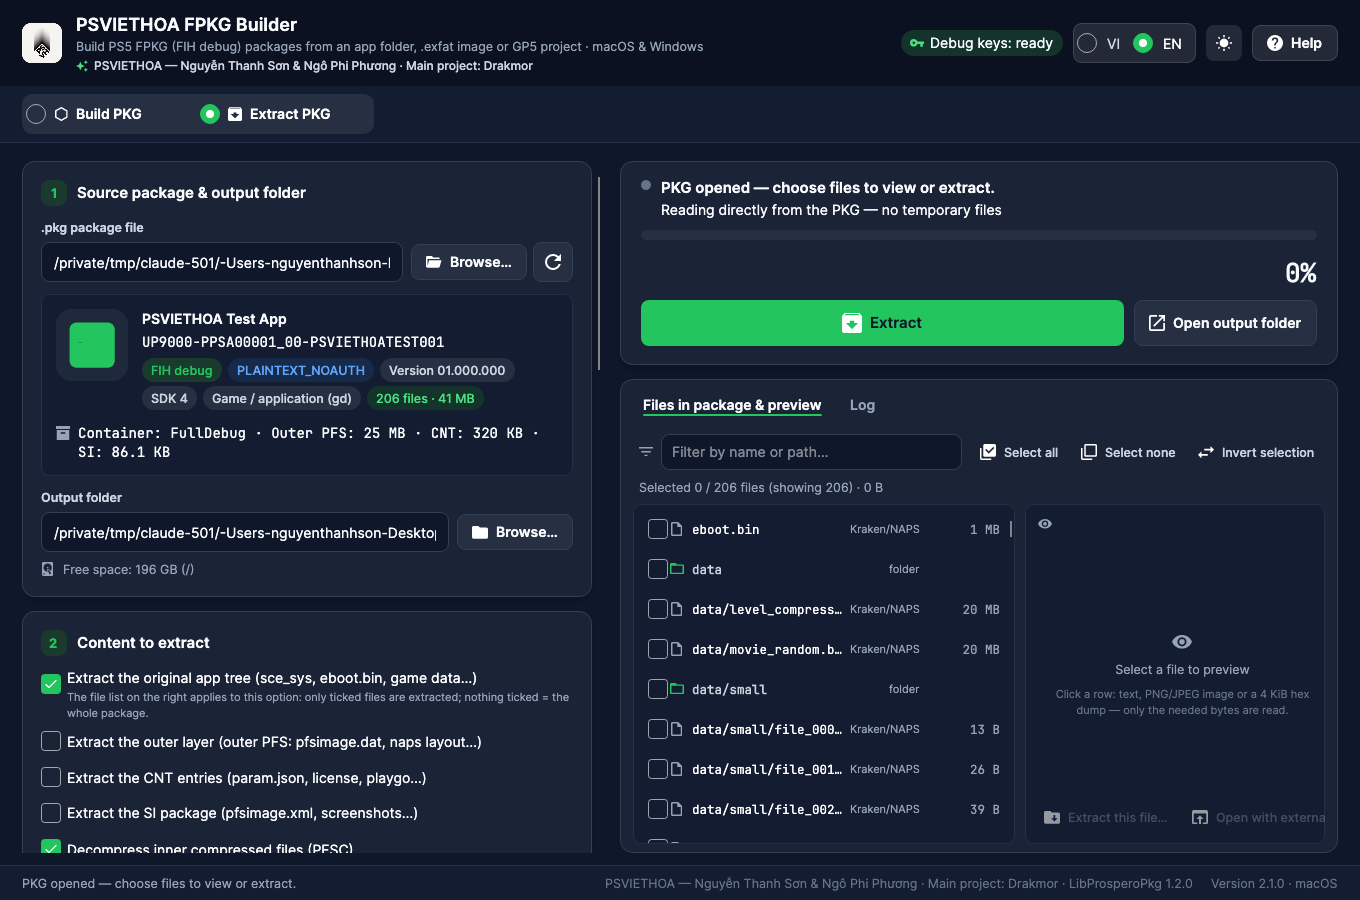
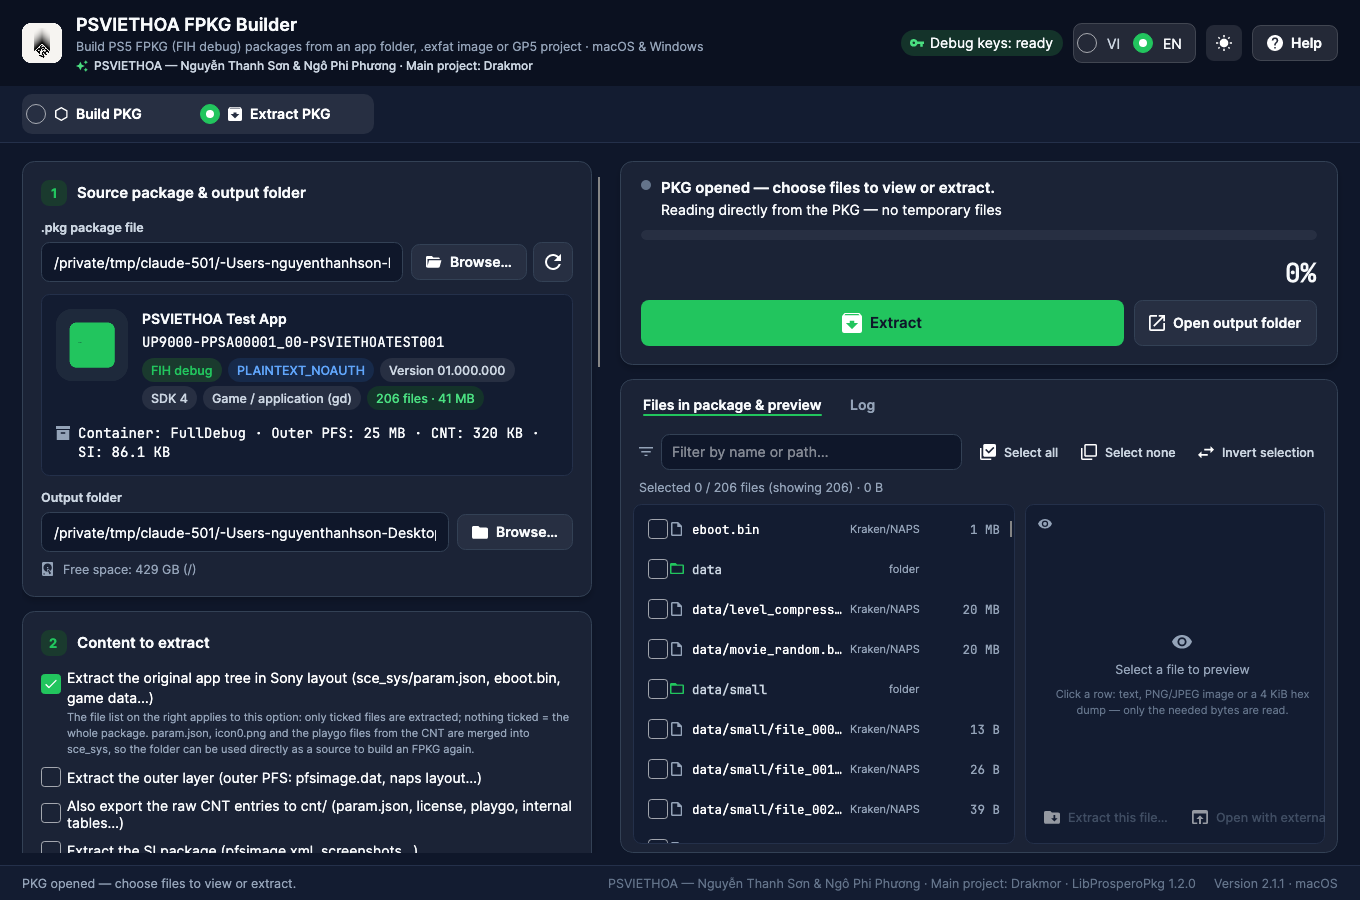
PSVIETHOA FPKG Builder 2.1.1 — Sony-layout extraction, UI exception safety net
- Extracted app trees now merge param.json, icon0.png, pic0.png and the playgo files from the CNT into sce_sys/, so the output folder can be rebuilt into an FPKG directly (GUI and CLI; --no-sce-sys to skip, --cnt still exports the raw CNT tables)
- Unhandled UI-thread exceptions are logged to error.log and shown in the log instead of terminating the app; unobserved task exceptions are logged
- Verified on a 36 GB / 166,707-file package: info 0.16 s, listing 3.8 s, extraction ~200 MB/s
- Refreshed extract-mode screenshots; 103 tests

Changed region(s): [[0.0309, 0.7467, 0.4324, 0.9644], [0.4324, 0.9644, 0.9574, 0.9956], [0.0926, 0.6222, 0.1544, 0.6533]]

diff --git a/src/PsViethoa.FpkgBuilder.Core/Services/PackageReader.cs b/src/PsViethoa.FpkgBuilder.Core/Services/PackageReader.cs
@@ -364,6 +364,55 @@ public sealed class PackageReader : IDisposable
         return ExportWithStaging(outputFolder, "psviethoa-cnt-", cancellationToken, target => ProsperoPackageArchive.ExtractCntEntries(packagePath, target, passcode, includeEncrypted: true));
     }
 
+    /// <summary>
+    /// Ghép các tệp sce_sys nằm trong CNT (param.json, icon0.png, pic0.png, playgo-*.dat, trophy2/…, uds/…) vào
+    /// &lt;thư mục đích&gt;/sce_sys để cây ứng dụng trích ra đúng bố cục Sony và dùng lại được làm nguồn tạo gói FPKG.
+    /// Các bảng nội bộ của CNT (.digests, .entry_keys, .metas… và entry-XXXXXXXX.bin) bị bỏ qua.
+    /// Trả về danh sách đường dẫn tương đối (dùng '/') đã ghi.
+    /// </summary>
+    public static IReadOnlyList<string> ExportSceSys(string packagePath, string outputFolder, string passcode, CancellationToken cancellationToken)
+    {
+        var staging = ExportCntEntriesToTemp(packagePath, passcode, cancellationToken);
+        try
+        {
+            var sceSys = Path.Combine(Path.GetFullPath(outputFolder), "sce_sys");
+            var written = new List<string>();
+            foreach (var file in Directory.EnumerateFiles(staging, "*", SearchOption.AllDirectories).OrderBy(f => f, StringComparer.Ordinal))
+            {
+                cancellationToken.ThrowIfCancellationRequested();
+                var relative = Path.GetRelativePath(staging, file);
+                if (!IsSceSysPayload(relative))
+                {
+                    continue;
+                }
+
+                var target = Path.Combine(sceSys, relative);
+                Directory.CreateDirectory(Path.GetDirectoryName(target)!);
+                File.Copy(file, target, overwrite: true);
+                written.Add("sce_sys/" + relative.Replace(Path.DirectorySeparatorChar, '/'));
+            }
+
+            return written;
+        }
+        finally
+        {
+            BuildEngine.TryDeleteDirectory(staging);
+        }
+    }
+
+    /// <summary>Tệp CNT nào là dữ liệu sce_sys thật (không phải bảng nội bộ của container).</summary>
+    public static bool IsSceSysPayload(string relativePath)
+    {
+        var name = Path.GetFileName(relativePath);
+        if (name.Length == 0 || name[0] == '.')
+        {
+            return false;
+        }
+
+        // entry-0000040a.bin: mục CNT không có tên chuẩn → giữ nguyên trong cnt/ (xuất thô), không đưa vào sce_sys.
+        return !System.Text.RegularExpressions.Regex.IsMatch(name, "^entry-[0-9a-fA-F]{8}\\.bin$");
+    }
+
     /// <summary>Xuất các mục SI (supplement: naps_meta_*.dat, playgo-chunk.crc…) nếu gói có; trả về danh sách rỗng nếu không có.</summary>
     public static IReadOnlyList<string> ExportSiEntries(string packagePath, string outputFolder, CancellationToken cancellationToken)
     {

diff --git a/tests/PsViethoa.FpkgBuilder.Tests/PackageExtractionTests.cs b/tests/PsViethoa.FpkgBuilder.Tests/PackageExtractionTests.cs
@@ -355,6 +355,52 @@ public sealed class PackageExtractionTests : IClassFixture<PackageExtractionFixt
     }
 
     [Fact]
+    public void ExportSceSys_ProducesRebuildableSonyLayout()
+    {
+        var package = _fixture.GetPackage(OuterImageMode.PlaintextNoAuth);
+        if (package == null)
+        {
+            return;
+        }
+
+        var folder = TempFolder("sony");
+        using (var reader = PackageReader.Open(package, Passcode, null, CancellationToken.None, null))
+        {
+            reader.ExtractAll(folder, null, CancellationToken.None);
+        }
+
+        var merged = PackageReader.ExportSceSys(package, folder, Passcode, CancellationToken.None);
+        Assert.Contains("sce_sys/param.json", merged);
+        Assert.Contains("sce_sys/icon0.png", merged);
+        Assert.DoesNotContain(merged, f => Path.GetFileName(f).StartsWith('.'));
+        Assert.DoesNotContain(merged, f => Path.GetFileName(f).StartsWith("entry-", StringComparison.Ordinal));
+        Assert.False(Directory.Exists(Path.Combine(folder, "cnt")));
+
+        // Thư mục kết quả phải là nguồn hợp lệ để tạo gói lại: có sce_sys/param.json với đúng Content ID.
+        Assert.Equal(SourceKind.Folder, SourceLocator.Detect(folder));
+        var metadata = MetadataReader.Read(folder, CancellationToken.None);
+        Assert.True(metadata.HasParamJson);
+        Assert.Equal(PackageExtractionFixture.ContentId, metadata.ContentId);
+        Assert.True(File.Exists(Path.Combine(folder, "eboot.bin")));
+        Assert.Empty(BuildPreparer.Validate(new BuildRequest
+        {
+            SourcePath = folder,
+            OutputFolder = TempFolder("sony-out"),
+            ContentId = metadata.ContentId!,
+            KrakenBackend = KrakenBackendKind.BuiltIn,
+        }));
+    }
+
+    [Theory]
+    [InlineData("param.json", true)]
+    [InlineData("trophy2/trophy00.ucp", true)]
+    [InlineData(".digests", false)]
+    [InlineData("uds/.hidden", false)]
+    [InlineData("entry-0000040a.bin", false)]
+    public void IsSceSysPayload_FiltersInternalCntTables(string relative, bool expected) =>
+        Assert.Equal(expected, PackageReader.IsSceSysPayload(relative));
+
+    [Fact]
     public void ExportCntEntries_YieldsOriginalParamJson()
     {
         var package = _fixture.GetPackage(OuterImageMode.PlaintextNoAuth);

diff --git a/src/PsViethoa.FpkgBuilder.App/App.axaml.cs b/src/PsViethoa.FpkgBuilder.App/App.axaml.cs
@@ -1,4 +1,5 @@
 using Avalonia;
+using Avalonia.Threading;
 using Avalonia.Controls;
 using Avalonia.Controls.ApplicationLifetimes;
 using Avalonia.Markup.Xaml;
@@ -25,6 +26,8 @@ public partial class App : Application
             System.Diagnostics.Trace.Listeners.Add(new System.Diagnostics.TextWriterTraceListener(Console.Error));
         }
 
+        InstallExceptionSafetyNet();
+
         var settings = SettingsService.Load();
         Core.Localization.Loc.Current.SetLanguage(settings.Language);
         RequestedThemeVariant = settings.Theme == "Light" ? ThemeVariant.Light : ThemeVariant.Dark;
@@ -39,6 +42,38 @@ public partial class App : Application
         }
 
         base.OnFrameworkInitializationCompleted();
+    }
+
+    /// <summary>
+    /// Lưới an toàn: lỗi không bắt được trên luồng giao diện (ví dụ khi trích gói rất lớn) được ghi vào error.log và
+    /// đưa vào nhật ký thay vì làm sập ứng dụng; lỗi Task không quan sát cũng được ghi lại.
+    /// </summary>
+    private void InstallExceptionSafetyNet()
+    {
+        Dispatcher.UIThread.UnhandledException += (_, e) =>
+        {
+            CrashLog.Write(e.Exception);
+            DebugLog.Write("Unhandled UI exception: " + e.Exception);
+            if (ApplicationLifetime is IClassicDesktopStyleApplicationLifetime { MainWindow.DataContext: MainViewModel viewModel })
+            {
+                viewModel.ReportUnhandledException(e.Exception);
+                e.Handled = true;
+            }
+        };
+
+        TaskScheduler.UnobservedTaskException += (_, e) =>
+        {
+            CrashLog.Write(e.Exception);
+            e.SetObserved();
+        };
+
+        AppDomain.CurrentDomain.UnhandledException += (_, e) =>
+        {
+            if (e.ExceptionObject is Exception exception)
+            {
+                CrashLog.Write(exception);
+            }
+        };
     }
 
     public static void ApplyTheme(bool dark)

diff --git a/src/PsViethoa.FpkgBuilder.Cli/PackageCommands.cs b/src/PsViethoa.FpkgBuilder.Cli/PackageCommands.cs
@@ -66,7 +66,7 @@ internal static class PackageCommands
         return 0;
     }
 
-    /// <summary>pkg-extract &lt;tệp.pkg&gt; --output &lt;dir&gt; [--include glob]… [--cnt] [--passcode X] [--threads N] [--temp dir]</summary>
+    /// <summary>pkg-extract &lt;tệp.pkg&gt; --output &lt;dir&gt; [--include glob]… [--cnt] [--no-sce-sys] [--passcode X] [--threads N] [--temp dir]</summary>
     public static int Extract(Arguments arguments)
     {
         if (!TryGetPackage(arguments, out var path))
@@ -138,6 +138,12 @@ internal static class PackageCommands
         }
 
         Console.WriteLine(Loc.F("Cli.PkgExtracted", Formatters.Count(result.FileCount), Formatters.SizeWithBytes(result.TotalBytes), Formatters.Duration(result.Elapsed), result.OutputFolder));
+        if (!arguments.Has("no-sce-sys") && info.Cnt != null)
+        {
+            // Bố cục Sony: cây ứng dụng + sce_sys/param.json, icon0.png, playgo… từ CNT → dùng lại được làm nguồn tạo gói.
+            var sceSys = PackageReader.ExportSceSys(path, outputRoot, passcode, cancellation.Token);
+            Console.WriteLine(Loc.F("Cli.PkgSceSysExported", sceSys.Count, Path.Combine(outputRoot, "sce_sys")));
+        }
         return 0;
     }
 

diff --git a/src/PsViethoa.FpkgBuilder.App/ViewModels/ExtractionViewModel.cs b/src/PsViethoa.FpkgBuilder.App/ViewModels/ExtractionViewModel.cs
@@ -1307,6 +1307,17 @@ public sealed partial class ExtractionViewModel : ObservableObject
                 parts.Add(Loc.F("Extract.PartApp", Formatters.Count(result.FileCount), Formatters.Size(result.TotalBytes)));
                 ProgressPercent = 100;
                 PercentText = "100%";
+
+                // Bố cục Sony: ghép param.json / icon0.png / playgo… từ CNT vào sce_sys của cây ứng dụng để dùng lại làm nguồn tạo gói.
+                if (CanExport)
+                {
+                    await RunStepAsync(Loc.T("Extract.StepSceSys"), () =>
+                    {
+                        var files = PackageReader.ExportSceSys(packagePath, folder, passcode, token);
+                        parts.Add(Loc.F("Extract.PartSceSys", files.Count));
+                        Log(LogLevel.Info, Loc.F("Extract.LogSceSys", files.Count, Path.Combine(folder, "sce_sys")));
+                    }, token);
+                }
             }
 
             if (doOuter)

diff --git a/src/PsViethoa.FpkgBuilder.App/ViewModels/MainViewModel.cs b/src/PsViethoa.FpkgBuilder.App/ViewModels/MainViewModel.cs
@@ -437,6 +437,14 @@ public sealed partial class MainViewModel : ObservableObject
 
     partial void OnStatusTextChanged(string value) => OnPropertyChanged(nameof(FooterStatusText));
 
+    /// <summary>Lỗi không bắt được trên luồng giao diện: ghi vào nhật ký và thanh trạng thái thay vì để ứng dụng sập.</summary>
+    public void ReportUnhandledException(Exception exception)
+    {
+        var message = Loc.F("App.UnhandledError", exception.Message);
+        Log(LogLevel.Error, message + Environment.NewLine + exception);
+        StatusText = message;
+    }
+
     /// <summary>Esc: huỷ tác vụ đang chạy của chế độ hiện tại (tạo gói hoặc giải nén).</summary>
     [RelayCommand]
     private void CancelActive()

diff --git a/README.md b/README.md
@@ -63,7 +63,7 @@ See [CHANGELOG.md](CHANGELOG.md) for details.
 | **Before building** | Reads metadata + icon, scans size in parallel, **checks free space** on the temp/output volumes, and **detects & cleans OS junk files**. |
 | **While building** | Weighted overall progress bar with **ETA** and live **throughput**, byte‑weighted progress inside multi‑GB files, virtualized 20k‑line log, safe cancel, and **sleep prevention** (`caffeinate` / `SetThreadExecutionState`). |
 | **After building** | Verifies the FIH / outer‑PFS structure, optional SHA‑256, result panel, copy/save the log, open the output folder. |
-| **Extract packages** | **Extract PKG** mode: FIH / CNT headers, region map, every `param.json` field, icon and file list of a debug FPKG; filter and tick files/folders, extract a selection or everything with progress and cancel, export `sce_sys` (param.json, icon0.png, playgo…) and SI entries, optional SHA‑256. Plaintext packages are read in place (4 MiB chunk cache, no temp image); Native packages are decrypted to the temp folder first; retail packages are information‑only. |
+| **Extract packages** | **Extract PKG** mode (extracted app trees are in Sony layout — `sce_sys/param.json`, icon, playgo merged from the CNT — so they can be rebuilt directly): FIH / CNT headers, region map, every `param.json` field, icon and file list of a debug FPKG; filter and tick files/folders, extract a selection or everything with progress and cancel, export `sce_sys` (param.json, icon0.png, playgo…) and SI entries, optional SHA‑256. Plaintext packages are read in place (4 MiB chunk cache, no temp image); Native packages are decrypted to the temp folder first; retail packages are information‑only. |
 | **CLI** | `fpkg-cli build / inspect / verify / clean-junk / info / pkg-info / pkg-list / pkg-extract` for batch builds, scripting, and CI. |
 
 ## Download & run

diff --git a/CHANGELOG.md b/CHANGELOG.md
@@ -1,5 +1,11 @@
 # Changelog
 
+## 2.1.1 — 2026-09-14
+
+- **Extracted app trees are now in Sony layout.** The "original app tree" option merges param.json, icon0.png, pic0.png and the playgo files from the CNT into `sce_sys/`, so the output folder can be used directly as a source to build an FPKG again (CLI: `pkg-extract` does the same; `--no-sce-sys` skips it, `--cnt` still exports the raw CNT tables to `cnt/`).
+- Unhandled exceptions on the UI thread are logged to `error.log` and shown in the build log instead of terminating the app; unobserved task exceptions are logged.
+- Verified on a 36 GB / 166,707-file package (ASTRO BOT): info 0.16 s, listing 3.8 s, extraction ~200 MB/s.
+
 ## 2.1.0 — 2026-09-13
 
 Updated to the latest **LibProsperoPkg** (from `fpkg-gui 0.6.2`) and exposed its new capabilities.
